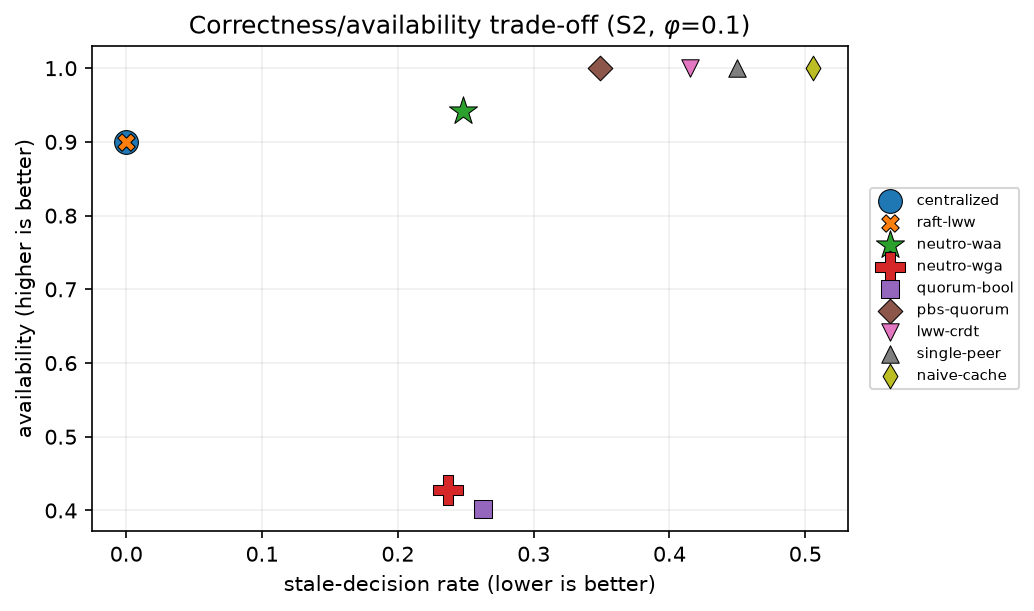
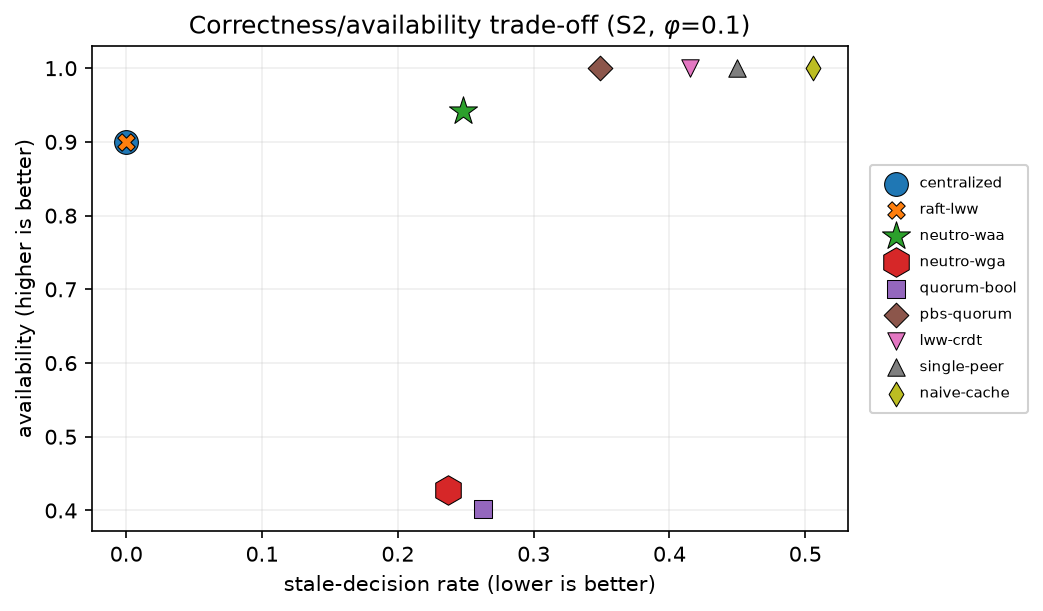
review-response step 1: Fig 4 marker/legend tweak; score-panel result; statements
- Fig 4 (pareto): neutro-wga marker changed from filled-plus (rendered as a red cross) to hexagon;
  legend given breathing room (labelspacing/handletextpad/borderpad). All 9 markers distinct.
- Results: add the score-panel (Axis A') paragraph -- the Pareto-interior advantage holds across
  deneutrosophy scores (stale 0.235 linear / 0.227 accuracy / 0.219 cosine / 0.191 truth-weighted).
- Statements: correct Code availability to the author-confirmed wording (PRIVATE GitHub repo, available
  to editors/referees on request during review, public MIT on acceptance) -- the prior 'open-source MIT
  in the repository' text was wrong; align Data availability with the deferred-release model; add the
  required Author contributions, Competing interests, Funding, and an LLM-use disclosure (wording draft
  pending author sign-off).

diff --git a/paper/manuscript.tex b/paper/manuscript.tex
@@ -542,6 +542,13 @@ from conservative (Acz\'el--Alsina: stale $0.162$ at availability $0.624$) throu
 frontier, a second tuning axis beyond $\tau$. On crisp inputs every operator collapses exactly to WAA (a
 verified null), so the spread is a property of the graded encoding, not of the operators in isolation.
 
+\paragraph{Score robustness (Axis A$'$).} Swapping the deneutrosophy score that maps an aggregated
+$(T,I,F)$ to the gate---an accuracy, a cosine, and a truth-weighted score in place of the default
+linear score---shifts a system along the same frontier without changing the qualitative result (S2,
+$\varphi=0.1$): stale-rate $0.235$ (linear), $0.227$ (accuracy), $0.219$ (cosine), $0.191$
+(truth-weighted), at availabilities from $0.929$ down to $0.762$. The Pareto-interior advantage is thus a
+property of the $(T,I,F)$ representation and its gate, not of any single score.
+
 \paragraph{Byzantine robustness (adversarial faults).} We stress the layer with peers that claim
 \emph{persisted} while serving a fabricated value at an inflated version, and compare the
 Byzantine-robust aggregators (coordinate-wise median, trimmed mean, Krum) against the averaging
@@ -719,15 +726,32 @@ trade-off. Next steps: measured latency on a Dockerized testbed, learned peer we
 
 %====================================================================
 \section*{Data availability}
-All raw per-trial outputs, the canonical \texttt{per\_config\_summary.csv},
-\texttt{pairwise\_tests.csv}, \texttt{multiseed\_validation.csv}, the content-hashed
-\texttt{config/calibration.json}, and the figure/table generators are in the repository; every numeric
-claim is regenerable via \texttt{REPRODUCE.md}.
+The content-hashed \texttt{config/calibration.json} and the aggregated result tables
+(\texttt{per\_config\_summary.csv}, \texttt{pairwise\_tests.csv}, \texttt{multiseed\_validation.csv}, and
+the per-experiment tables) that underlie every figure and table are provided with the submission and
+available from the corresponding author on reasonable request; together with the figure/table generators
+they regenerate every numeric claim (\texttt{REPRODUCE.md}). The full repository, including the raw
+per-trial outputs, will be released publicly on acceptance.
 
 \section*{Code availability}
-The implementation (neutrosophic operators, ANTLR DSL and rules engine, decision protocol, baselines,
-and harness) is open-source (MIT) in the repository at the tagged commit; dependency versions are
+The implementation (neutrosophic operators, ANTLR DSL and rules engine, decision protocol, baselines, and
+harness) is maintained in a private GitHub repository, available to the editors and referees on request
+during peer review, and will be made publicly available (MIT) upon acceptance. Dependency versions are
 pinned and the ANTLR parser is committed so no Java is needed to reproduce.
+
+\section*{Author contributions}
+H.A.E. conceived and designed the study, implemented the system, performed the experiments, analysed the
+data, and wrote the manuscript.
+
+\section*{Competing interests}
+The author declares no competing interests.
+
+\section*{Funding}
+The author received no specific funding for this work.
+
+\section*{Use of large language models}
+A large language model assisted with code scaffolding and manuscript drafting under the author's
+direction; the author reviewed and verified all content and is solely responsible for it.
 
 \bibliographystyle{elsarticle-num}
 \bibliography{refs}

diff --git a/experiments/make_figures.py b/experiments/make_figures.py
@@ -50,7 +50,7 @@ def fig_pareto(df: pd.DataFrame, scenario: str = "S2", phi: float = 0.1) -> None
              & (df.failure_inject_phi == phi)].set_index("system")
     fig, ax = plt.subplots(figsize=(6.5, 4.2))
     # distinct marker SHAPE per system so coincident points (centralized==raft-lww at (0,0.9)) layer visibly
-    markers = {"centralized": "o", "raft-lww": "X", "neutro-waa": "*", "neutro-wga": "P",
+    markers = {"centralized": "o", "raft-lww": "X", "neutro-waa": "*", "neutro-wga": "h",
                "quorum-bool": "s", "pbs-quorum": "D", "lww-crdt": "v", "single-peer": "^",
                "naive-cache": "d"}
     for sysname in ORDER:
@@ -64,7 +64,8 @@ def fig_pareto(df: pd.DataFrame, scenario: str = "S2", phi: float = 0.1) -> None
     ax.set_xlabel("stale-decision rate (lower is better)")
     ax.set_ylabel("availability (higher is better)")
     ax.set_title(f"Correctness/availability trade-off ({scenario}, $\\varphi$={phi})")
-    ax.legend(fontsize=7, loc="center left", bbox_to_anchor=(1.02, 0.5))   # outside axes: never over data
+    ax.legend(fontsize=7, loc="center left", bbox_to_anchor=(1.02, 0.5),   # outside axes: never over data
+              labelspacing=0.8, handletextpad=0.6, borderpad=0.8, framealpha=0.9)
     ax.grid(True, alpha=0.2)
     _save(fig, "f3_pareto")
 